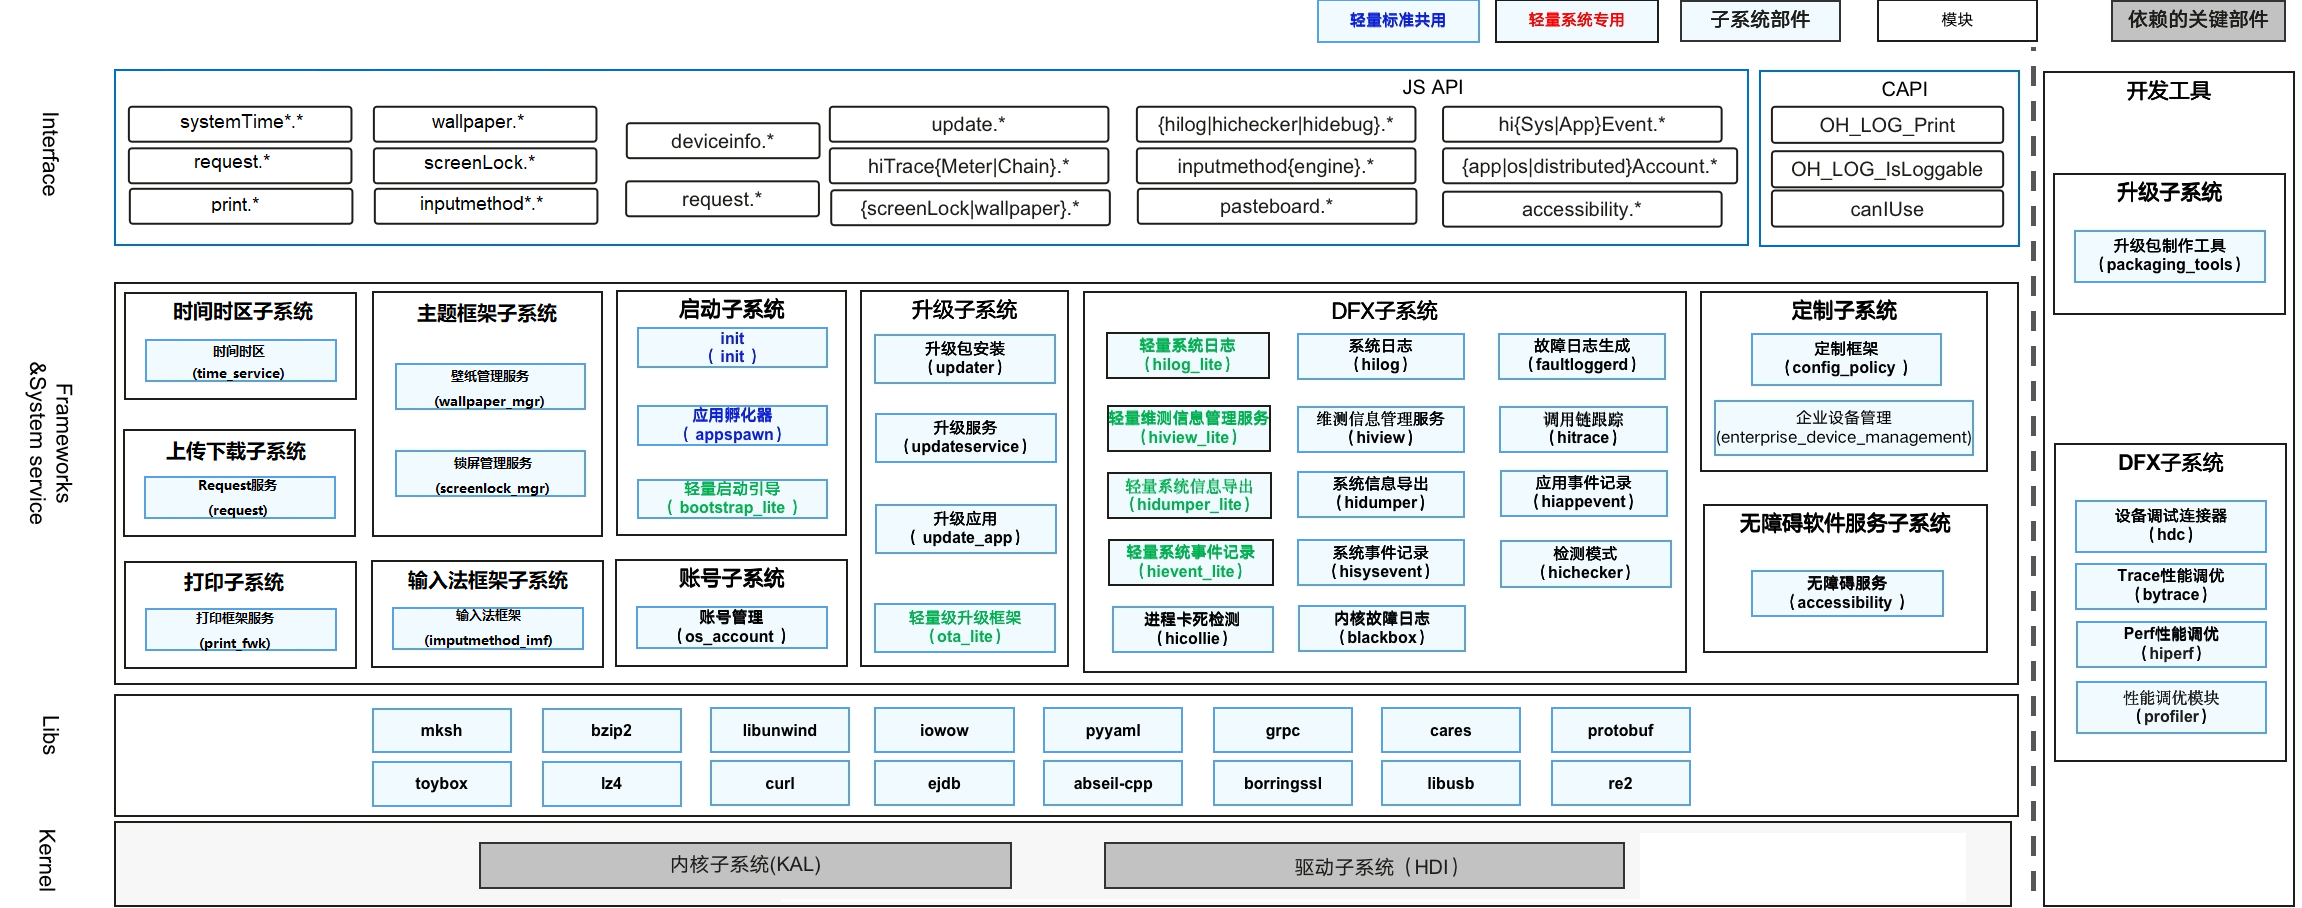
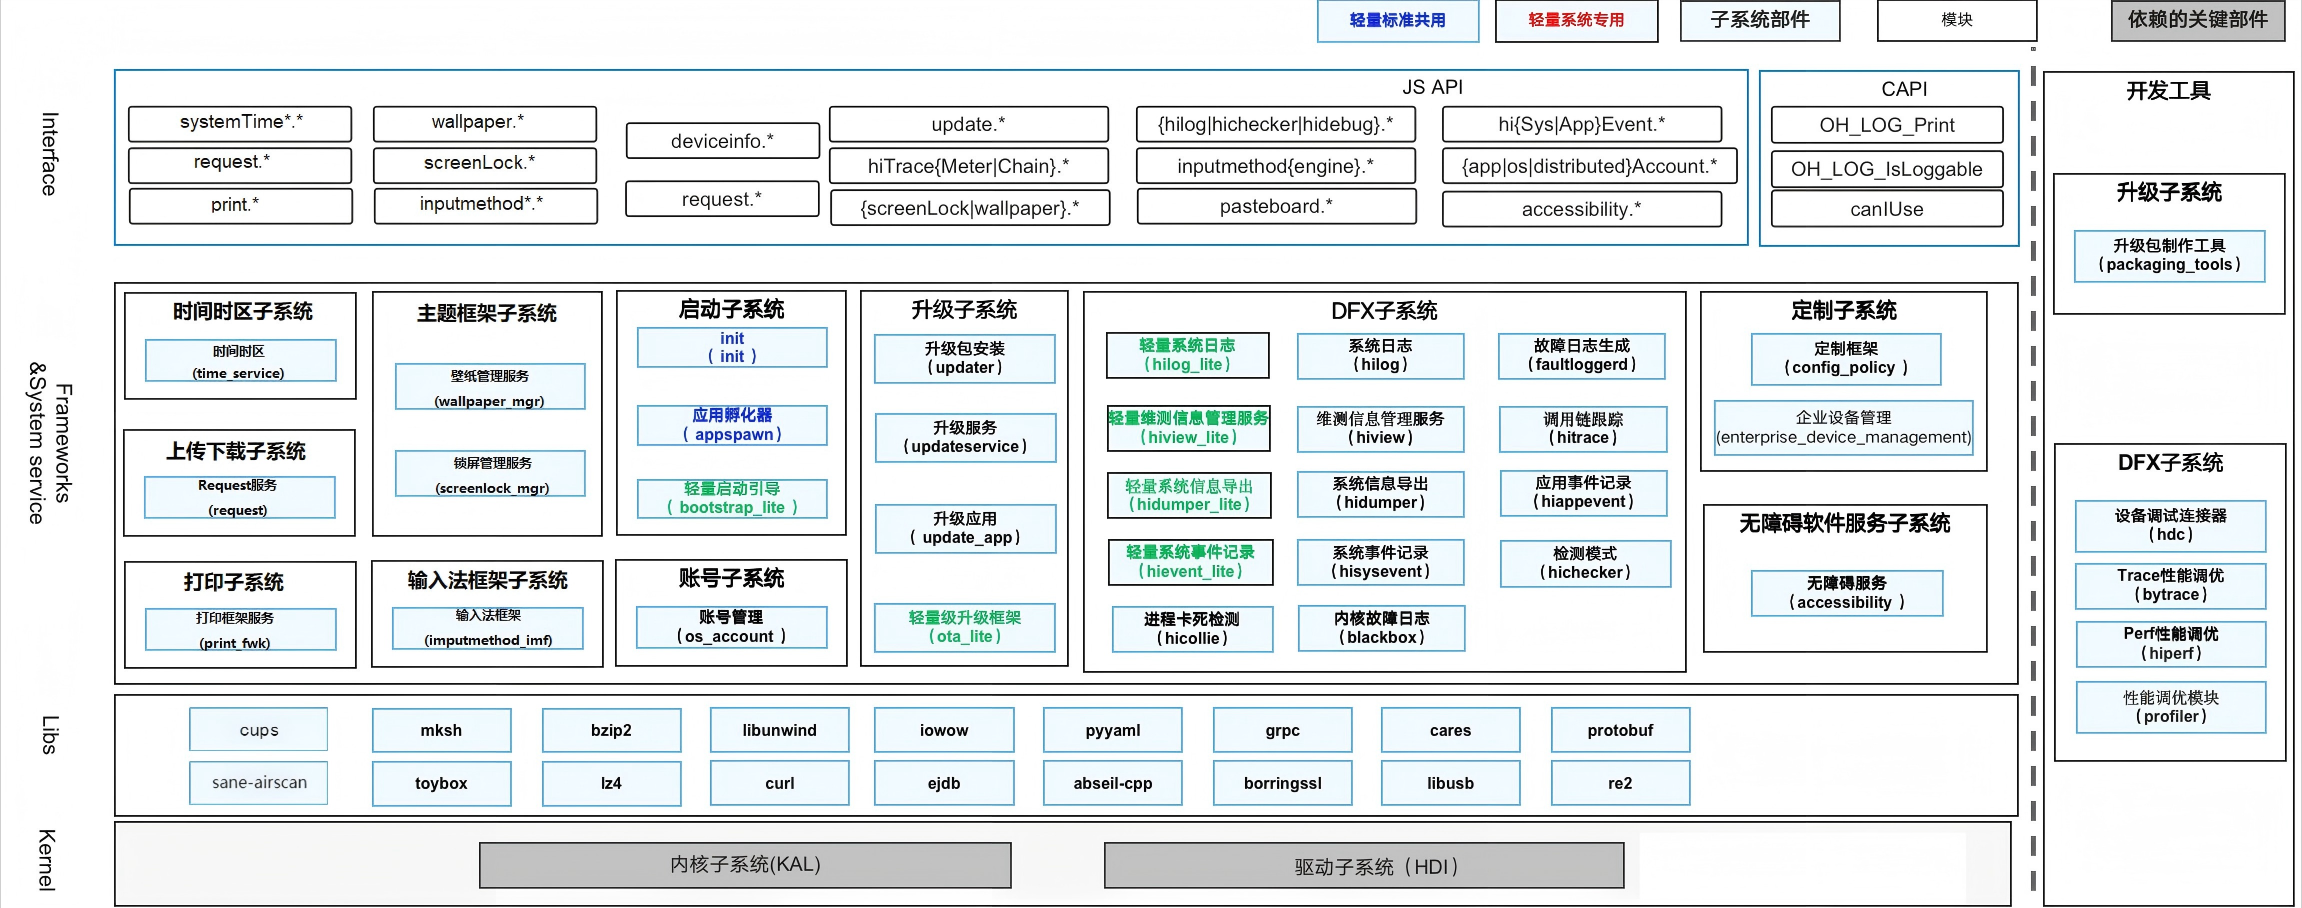
打印子系统增加扫描; Signed-off-by:liuhaosu@huawei.com

diff --git a/sig/sig_basicsoftwareservice/sig_basicsoftwareservice_cn.md b/sig/sig_basicsoftwareservice/sig_basicsoftwareservice_cn.md
@@ -26,7 +26,7 @@ BasicSoftwareService SIG技术栈范围全景图如下图所示：
 |主题框架子系统|提供壁纸管理服务能力，支持系统显示、设置、切换壁纸等功能，以及锁屏管理服务|
 |输出法框架子系统|提供输入法开发框架，供输入法应用使用，以及提供输入法管理接口|
 |上传下载子系统|向三方应用提供系统下载/上传服务能力|
-|打印子系统|支持三方应用创建打印任务，拉起后台打印任务管理，管理打印扩展和打印任务|
+|打印子系统|支持三方应用创建打印任务，拉起后台打印任务管理，管理打印扩展和打印任务；支持三方应用发现和连接扫描仪，设置扫描参数，启动扫描和获取扫描图片|
 
 
 ## SIG组成员
